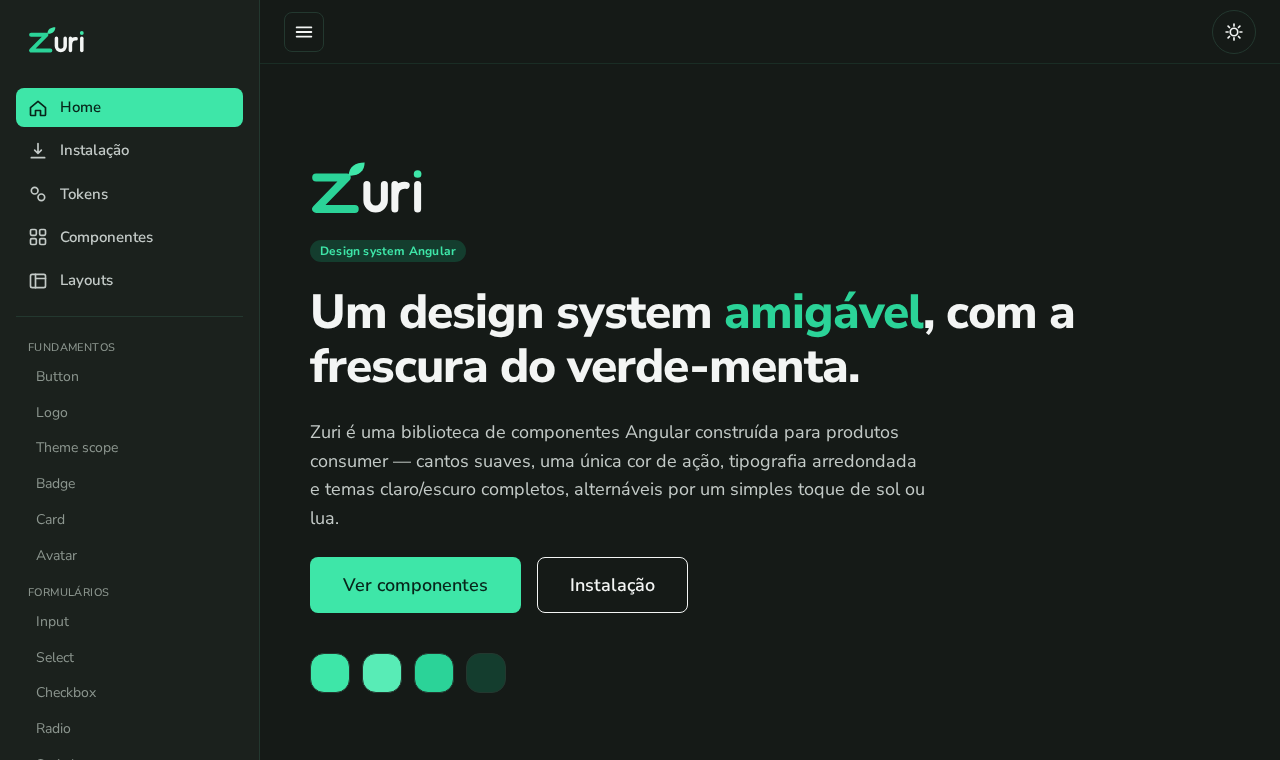
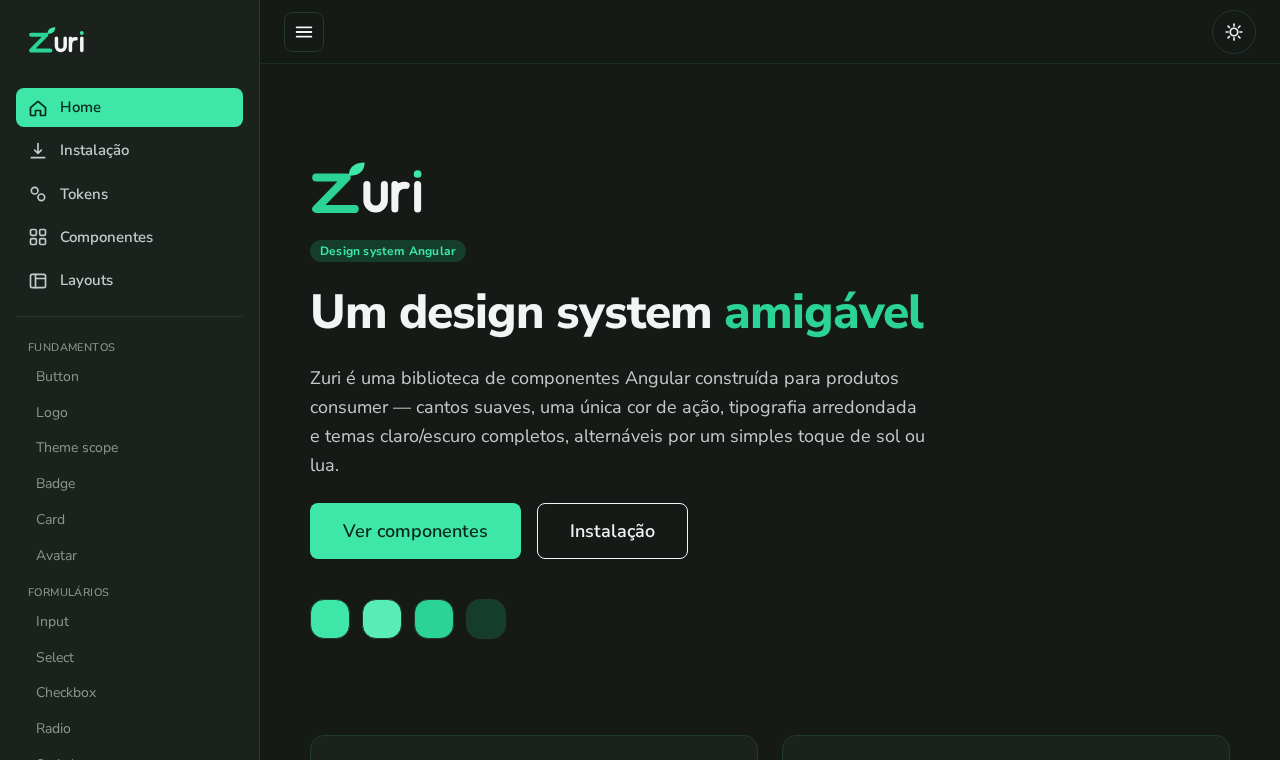
Ajuste no docs

diff --git a/projects/docs/src/app/pages/home/home.html b/projects/docs/src/app/pages/home/home.html
@@ -2,7 +2,7 @@
   <zur-logo [size]="56" />
   <zur-badge color="mint">Design system Angular</zur-badge>
   <h1>
-    Um design system <em>amigável</em>, com a frescura do verde-menta.
+    Um design system <em>amigável</em>
   </h1>
   <p class="lead">
     Zuri é uma biblioteca de componentes Angular construída para produtos consumer —

diff --git a/README.md b/README.md
@@ -5,7 +5,7 @@
   <img src="branding/zuri-horizontal-light.svg" alt="Zuri" height="96">
 </picture>
 
-### Zuri: um design system amigável
+### Um design system amigável
 
 ![Angular](https://img.shields.io/badge/Angular-22-DD0031?logo=angular&logoColor=white)
 ![TypeScript](https://img.shields.io/badge/TypeScript-strict-3178C6?logo=typescript&logoColor=white)
@@ -169,4 +169,4 @@ Zuri quer dizer "bonito" em suaíli. No logo, o Z com a folha na ponta é a prim
 
 ## Licença
 
-Ainda não definida.
+[MIT](LICENSE).
